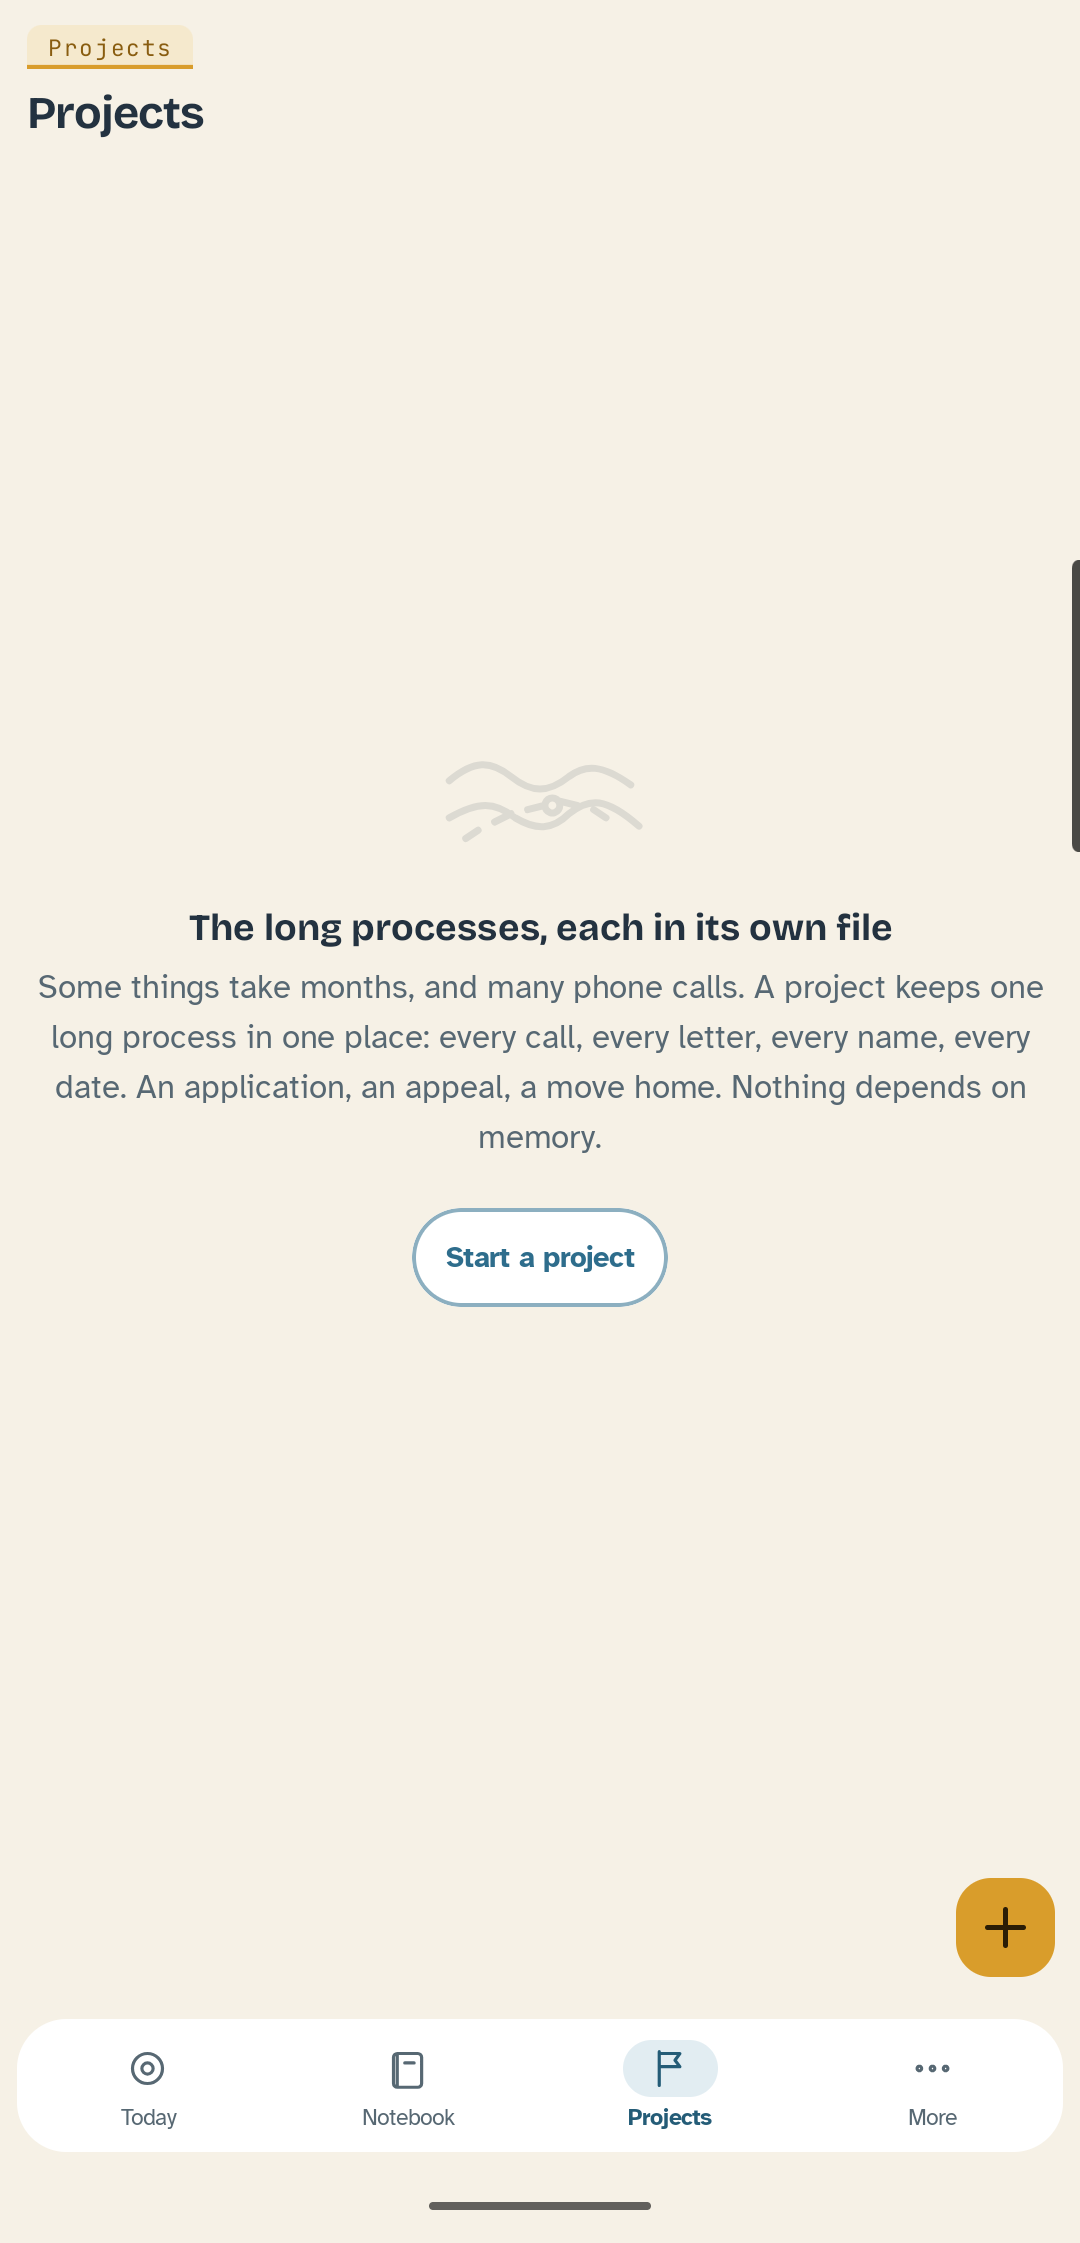
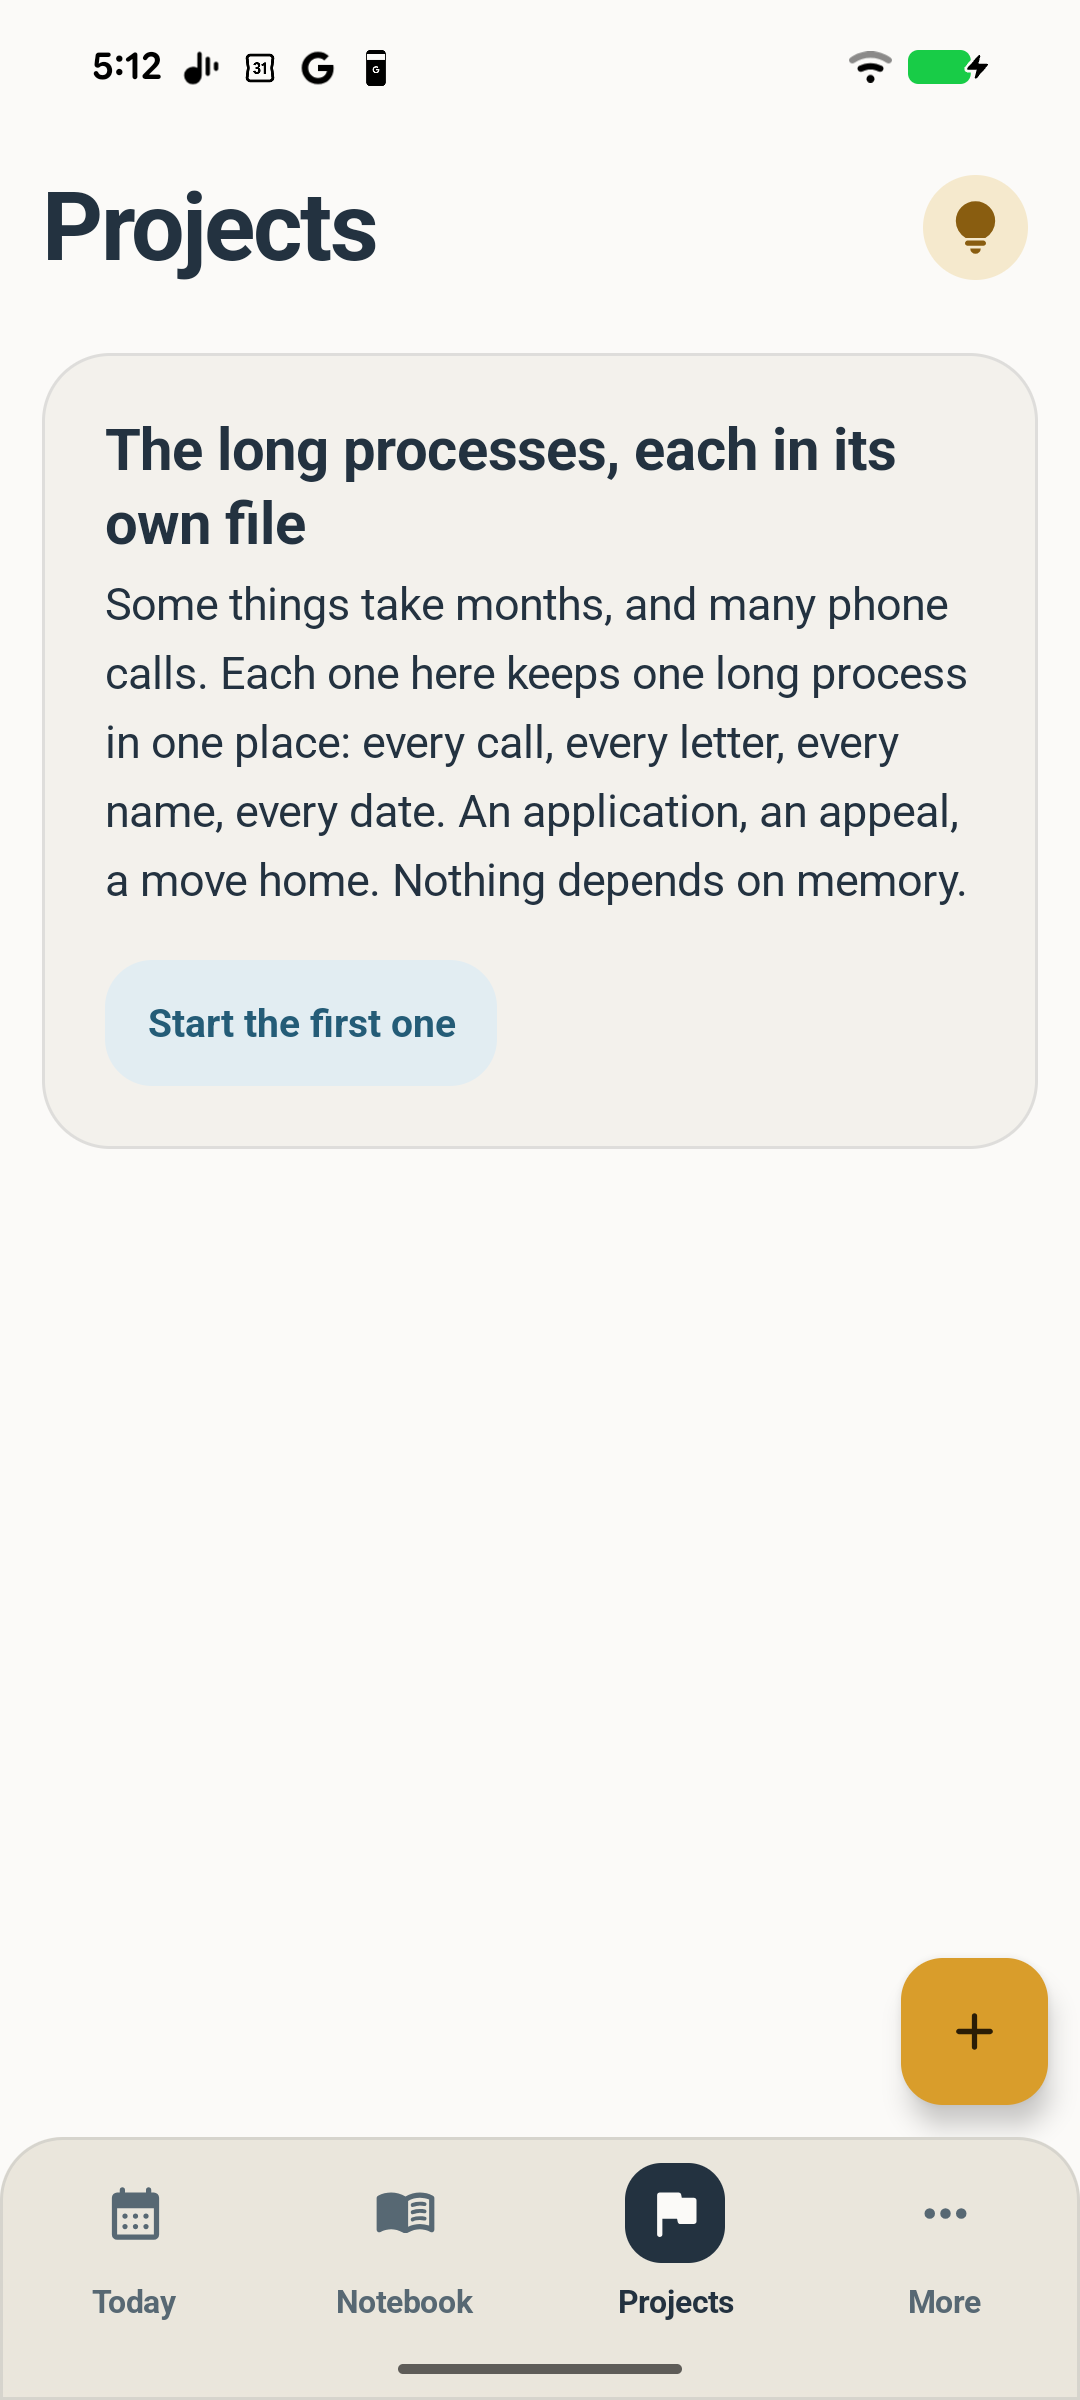
Rule 12, all three places, for the two composed project screens
A needs-design-review issue with real device captures at #401, two rows in
DESIGN.md 14 under the drawn screens they extend, and a line in HANDOFF section
14. The captures are in docs/screenshots: light, dark, font scale 2.0, empty and
one item for the list, and the answer block and the four tiles for the project.

Claude-Session: https://claude.ai/code/session_01EDVeq2bM3wBwGduzvLHqtA

diff --git a/DESIGN.md b/DESIGN.md
@@ -682,6 +682,8 @@ Every screen the app needs that the grid does not draw, and the drawn screen it 
 | Month review | 08 The trail | A period of the trail, composed, every line tapping through to its source. **Built 2026-08-04**, #200. Reached from the trail's own month heading, which gained a chevron and opens the month it names: the door costs no furniture and sits where the eye already is. **It has no total, deliberately.** A gold band reading "Written down this month, 42" was built and removed the same day: at that weight it competed with the hero, which law 1 says means the screen is wrong, and a single number over a month is an invitation to compare it against last month's, which is a judgment about somebody's care. Each group counts itself instead. Review at #236 |
 | The milestone arc | 19 Chapters | A spine of milestones with gold rings. **Built 2026-08-04**, #200, and it is where the app first became able to read or write a milestone at all: the table shipped in the schema and nothing touched it, #234. Reached from the chapters list, because there is no thirteenth section. The chapter door wears the chevron row rather than the outlined pill it was first built with: law 2 gives that costume to a verb and gives navigation the chevron, and a place name is a noun. Review at #235 |
 | Projects, the list | 12 Medications | Peers with state, active first |
+| The projects list, reimagined | **Projects grid, screen 02** | Drawn, so this is what the drawing does not carry: a lead. **Rebuilt 2026-08-18**, #399, D205. The grid draws peers with state and the build made them five identical cards, so nothing led and the eye landed nowhere. **One project leads**, whichever live one has the nearest date somebody else set, drawn as a tonal block with the road full width and its labels on, which is the one place on this screen the road can be read; with no dated project it is the one started most recently and leads with its standing. **Everything else is a dense row**, per rule 22, with the road's information as words. **The uppercase status tag above every name is gone**, which is where GOV.UK's two years of research on that exact pattern came out. Review at #401 |
+| A project's file, as four tiles | **Projects grid, screen 05** | Drawn, so this is the part the drawing does not carry: how the other screens are reached. **Rebuilt 2026-08-18**, #399, D206. Five dense rows, one of which was settings, plus two loose tonal pills at the foot of the scroll, is what the owner called menus and sub menus. **Four tiles**, rule 22's component for a fixed set of destinations, each with its own hue from `hueFor`, its name and what it counts. **Setup, the name and the removal moved to a Material overflow in the top bar**, which is three things off the page and one door fewer. **The answer and the date became one block**, because they were two tonal cards a gap apart with the second drawn louder, so the screen had two possible leads. Review at #401 |
 | Starting a project | 23 Track something new | A grouped, searchable picker. **Converted 2026-08-04**, #201. The sixteen were a flat wall of cards and are rows in folds. **The grouping needed a category the data did not have**, so the templates gained one, held to `paying`, `challenge`, `moving`, `papers` by `check_templates.py`: it is what the person is trying to do, never what kind of office it involves, and never `phase`, which is build order. The person's own lead when they have any, the first category otherwise. Review at #239 |
 | The template library | 23 Track something new | Same picker shape, the person's own first. **Converted 2026-08-04**, #201. **It reports rather than offers**, so what has produced something leads as cards holding its projects, and the rest folds by the picker's four categories. Fifteen of sixteen say "nothing started from this yet" in a real notebook, and sixteen cards mostly reporting nothing is the uniform weight rule 15 names. Review at #240 |
 | One template | 15 One project | Steps in order, editable in place |

diff --git a/HANDOFF.md b/HANDOFF.md
@@ -263,6 +263,11 @@ Precedence: verified code > `docs/V4.md` (visual) > this file > `DECISIONS.md` >
 
 **Screens composed rather than drawn** (rule 12): `gh issue list --label needs-design-review`. No second copy here.
 
+**Newest, 2026-08-18, #401**: the projects list's lead block, and a project's
+file as four tiles with the housekeeping moved to a top-bar overflow. Both are
+composed from existing components; the grid draws screens 02 and 05 and carries
+neither. D205, D206.
+
 **Reachable only from a test, not from any seed** (each on its own issue): paperwork an incident produced; the care team card's sparse rung and the trail spine's gap markers; the digest's corrected and removed counts; #273's two template hands; **the month review's `Hero` block**, which draws only when a month holds a milestone, and no month in the `year2` fixture does. Checked June, April and March on 2026-08-18 rather than assumed.
 
 **`EmptyDrawing` has no live drawing caller left.** `SectionEmpty` draws the
